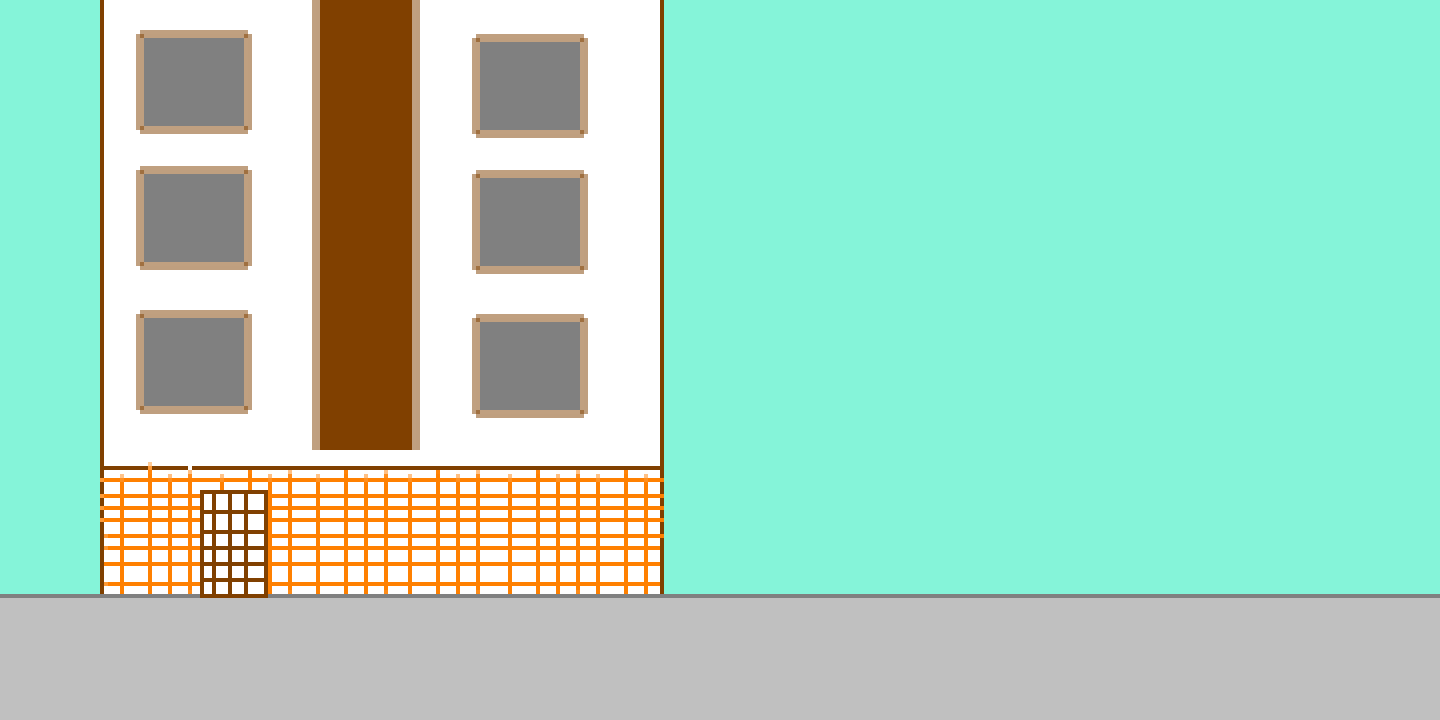
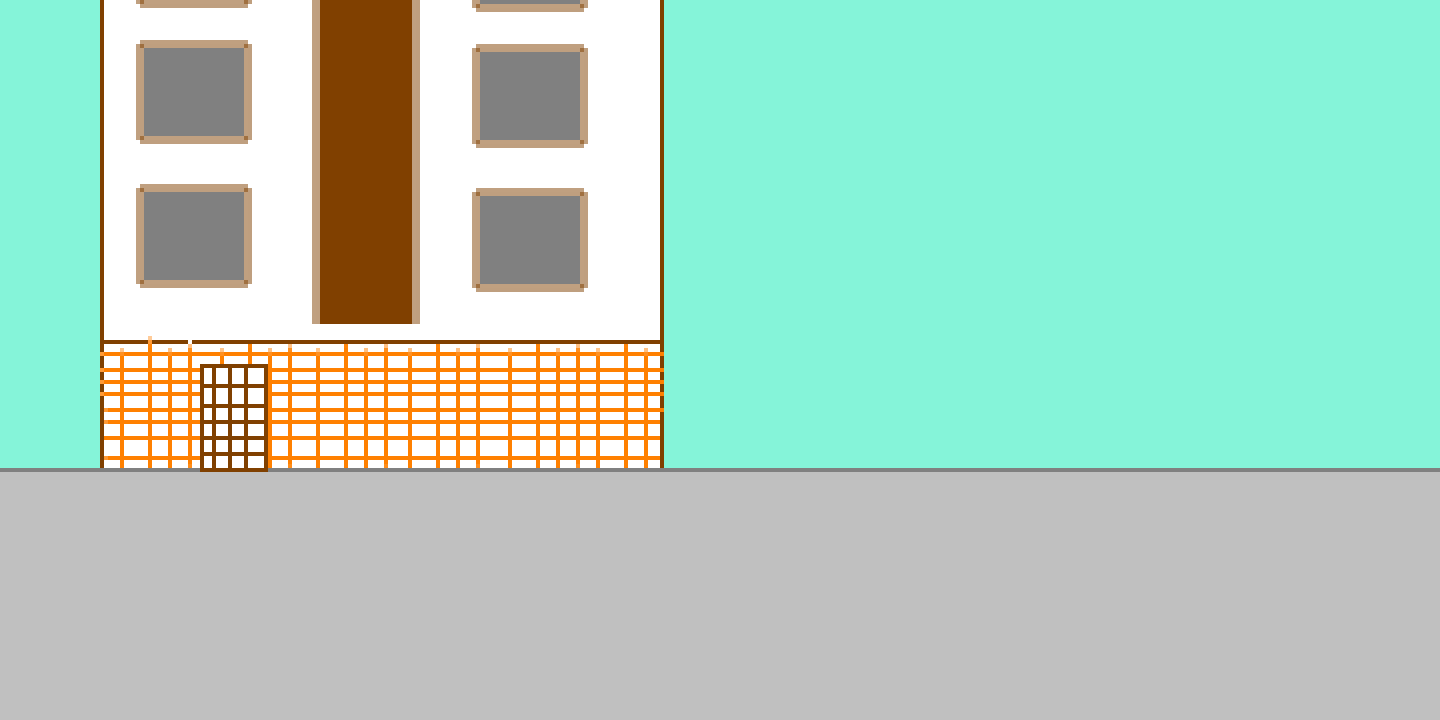
level one moving

diff --git a/lib/screens/level.one.dart b/lib/screens/level.one.dart
@@ -1,4 +1,5 @@
 import 'package:a6_birthday/components/components.dart';
+import 'package:a6_birthday/widgets/birthday.button.dart';
 import 'package:a6_birthday/widgets/rute.dart';
 import 'package:flutter/material.dart';
 
@@ -9,13 +10,13 @@ class LevelOne extends StatefulWidget {
 
 
 
-class _LevelOneState extends State<LevelOne> {
+class _LevelOneState extends State<LevelOne> with TickerProviderStateMixin{
 
   @override
   Widget build(BuildContext context) {
 
-
-
+    xPos = moveAnimation.value;
+    yPos = 0;
     return Container(
       decoration: BoxDecoration(
         image: DecorationImage
@@ -25,23 +26,111 @@ class _LevelOneState extends State<LevelOne> {
       ),
       child: Column(
         children: <Widget>[
-          SizedBox(
-            height: 300,
-          ),
+          SizedBox(height: 210,),
           Rute(
             xOffset: xPos,
             yOffset: yPos,
             state : state
           ),
+          SizedBox(height : 30),
+          Row(
+            mainAxisAlignment: MainAxisAlignment.center,
+            children: <Widget>[
+              BirthdayButton(
+                title: 'Esquer',
+                color: Colors.green,
+                onPressed: (){
+                  goLeft();
+                },
+              ),
+              BirthdayButton(
+                title: 'Parar',
+                color: Colors.red,
+                onPressed: (){
+                  stop();
+                },
+              ),
+              BirthdayButton(
+                title: 'Direita',
+                color: Colors.green,
+                onPressed: (){
+                  goRight();
+                },
+              ),
+            ],
+          )
         ]
       )
     );
   }
 
+  void goRight() {
+    direction = Direction.right;
+    legsAnimationController.repeat();
+    moveAnimationController.forward();
+  }
+
+  void stop() {
+    moveAnimationController.stop();
+    legsAnimationController.stop();
+    setState(() {
+      direction  == Direction.left ? 
+      state = ImageState.stillLeft :
+      state = ImageState.stillRight;
+    });
+  }
+
+  void goLeft() {
+    direction = Direction.left;
+    legsAnimationController.repeat();
+    moveAnimationController.reverse();
+  }
+
+
+  void startMoving() {
+    moveAnimationController = AnimationController(
+      duration: Duration(seconds: 6), vsync: this, value: 0.05);
+    moveAnimation =
+    Tween<double>(begin: -392, end: 440).animate(moveAnimationController)
+    ..addListener(() {
+    setState(() {});});
+  }
+
+  void startLegs() {
+    legsAnimationController = AnimationController(
+      duration: Duration(milliseconds: 250), vsync: this);
+    legsAnimation =
+    Tween<double>(begin: 1, end: 200).animate(legsAnimationController)
+    ..addListener(() {
+      direction == Direction.left ?
+      (
+        legsAnimation.value >= 100 ?  
+        state = ImageState.legUp1Left :
+        state = ImageState.legUp2Left 
+      )
+      :
+      (
+        legsAnimation.value >= 100 ?
+        state = ImageState.legUp1Right :
+        state = ImageState.legUp2Right
+      );
+    setState(() {});});
+  }
+
   @override
   void initState(){
     super.initState();
+    startMoving();
+    startLegs();
     state = ImageState.stillRight;
     Rute.folder = 'x2';
+    yPos = 0;
+  }
+
+  @override
+  void dispose(){
+    super.dispose();
+    moveAnimationController.dispose();
+    legsAnimationController.dispose();    
   }
 }

diff --git a/lib/screens/start.screen.dart b/lib/screens/start.screen.dart
@@ -224,7 +224,7 @@ class _StartScreenState extends State<StartScreen>
     Tween<double>(begin: 0, end: 100).animate(changeScreenDelayAnimationController)
     ..addListener(() {
       if(changeScreenDelayAnimation.isCompleted){
-        Navigator.pushNamed(context, 'level.one');
+        Navigator.popAndPushNamed(context, 'level.one');
       }
     setState(() {});});
   }
@@ -245,9 +245,6 @@ class _StartScreenState extends State<StartScreen>
 
   @override
   void dispose() {
-    moveAnimationController.dispose();
-    jumpAnimationController.dispose();
-    legsAnimationController.dispose();
     openDoorAnimationController.dispose();
     changeScreenDelayAnimationController.dispose();
     super.dispose();

diff --git a/lib/main.dart b/lib/main.dart
@@ -23,7 +23,7 @@ class BirthDay extends StatelessWidget {
         primarySwatch: Colors.red,
         secondaryHeaderColor: Colors.red
       ),
-      initialRoute: 'level.one',
+      initialRoute: 'start.screen',
       routes: {
         'menu.screen' : (context) => MenuScreen(),
         'start.screen' : (context) => StartScreen(),
